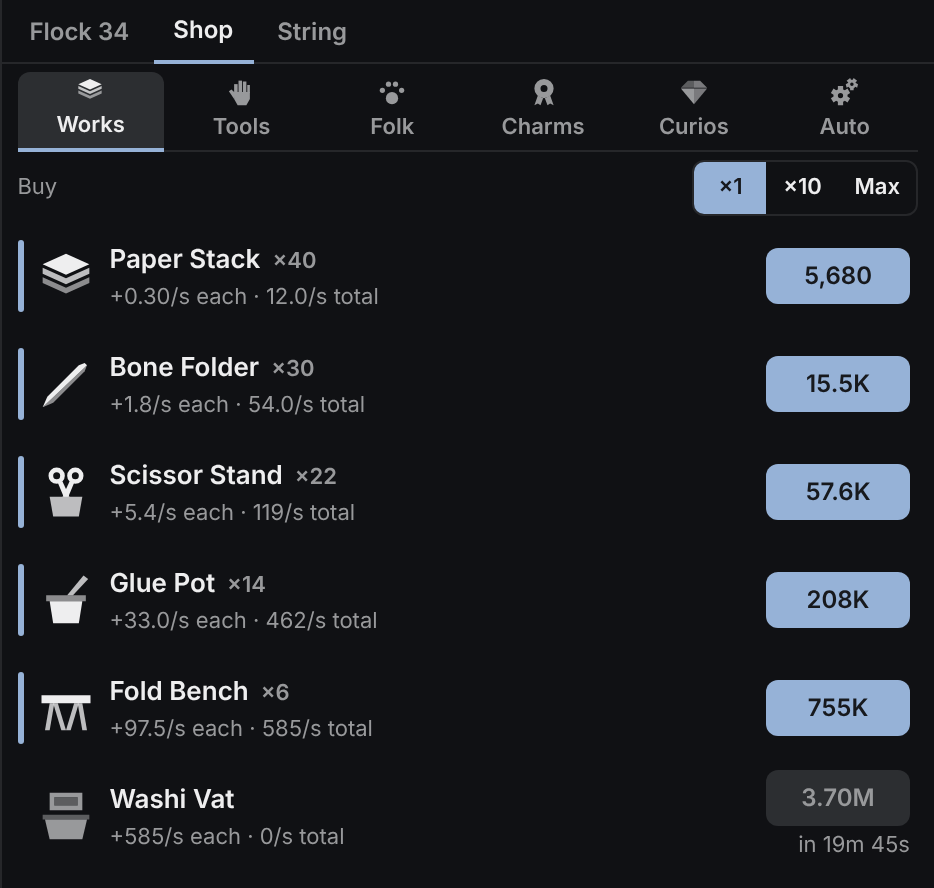
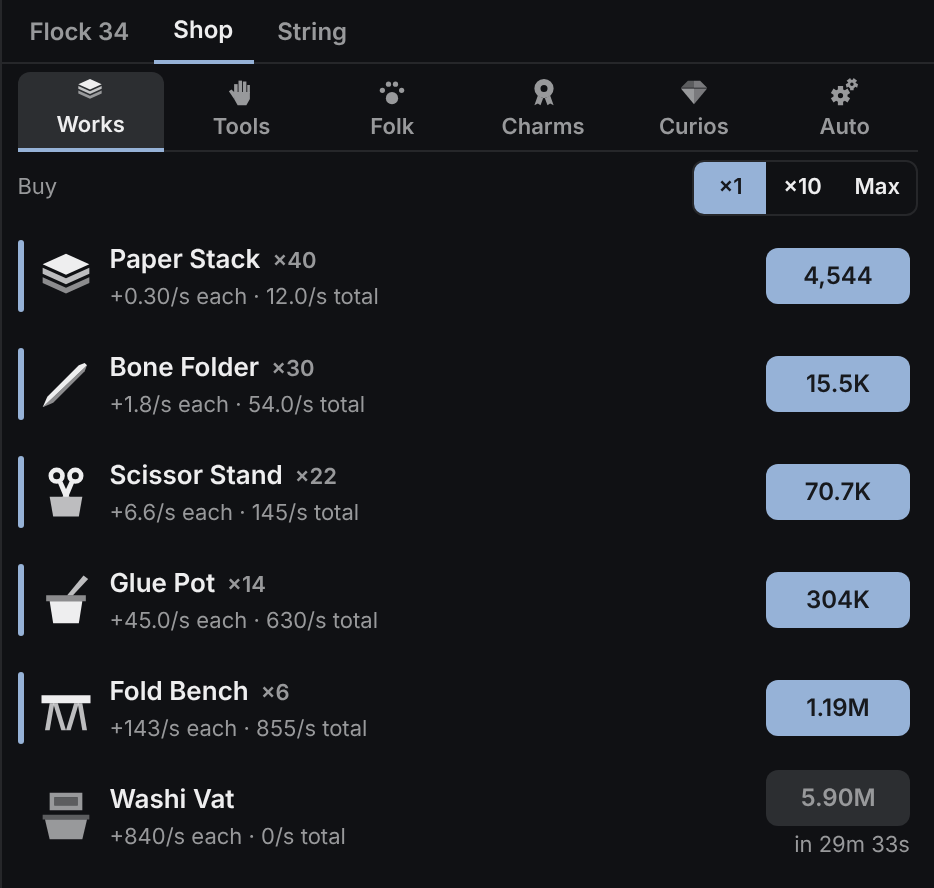
Originality pass: Spare parts perk, own workshop ladder, Confetti reshoot
- 25-Wish perk keeps a tenth of the three cheapest workshops instead of a fixed starter set
- workshop cost steps shrink up the ladder (no constant x12 ratio); bench-pace exponent 0.07 -> 0.06 to keep every pacing row
- README screenshots reshot with Confetti; frenzy.png renamed confetti.png

Claude-Session: https://claude.ai/code/session_018T6HA6JM8ZG8oRmwrts9Xj

diff --git a/tools/shots/hero-views.js b/tools/shots/hero-views.js
@@ -250,8 +250,8 @@ const RUN2_BUYS = [
   ["scissor-stand", 12], ["soft-brushes", 1], ["scrap-basket", 1], ["long-ribbon", 1], ["quick-creases", 1],
   ["long-streak", 1], ["fold-bench", 6], ["glue-pot", 4], ["grand-crease", 1], ["paper-stack", 15], ["bone-folder", 5],
 ];
-/** Folds run 2 has made: what RUN2_BUYS cost plus the ~1.3M in the bank now. */
-const RUN2_FOLDS = 9.4e6;
+/** Folds run 2 has made: what RUN2_BUYS cost (about 10.4M) plus the ~1.3M in the bank now. */
+const RUN2_FOLDS = 1.17e7;
 
 /**
  * THE moment every view starts from: the first wish made, a second run two

diff --git a/docs/screenshots/CAPTIONS.md b/docs/screenshots/CAPTIONS.md
@@ -8,14 +8,14 @@ Made by `node --import ./tools/node/register.mjs tools/shots/hero.mjs [--only na
 
 **README use.** hero-dark.png is the top image. hero-light.png is not a second gallery image. It is the `prefers-color-scheme: light` source of the same `<picture>` (`<source media="(prefers-color-scheme: light)" srcset="docs/screenshots/hero-light.png">` with hero-dark.png as the `<img>`). The cutting mat stays green in every theme, so the two differ only in herdr's chrome and the panel's surfaces.
 
-- hero-dark.png — Creaseworks inside herdr (graphite). In the active tab, a Claude Code agent needs you (it is waiting to edit away.js), a zsh shell has lint and 142 tests passing, and a Codex agent has finished the save-codec tests. On the right, you have just folded the paper: the "+1,593" rises beside it. A chain of seven waits with its next node ringed, and a gilded crane glides in. The Flock of 34 shows all four groups, and the ribbon runs along the bottom. Alt: "A dark herdr window: a sidebar of four spaces and a list of agents, three terminal panes (Claude Code asking to edit away.js, a zsh shell with lint and tests passing, Codex done with save codec tests), and the Creaseworks panel with a green cutting mat (numbered chain nodes, a gold crane, a half-folded paper crane with +1,593 beside it, four envelopes in the tray) above helper tiles grouped as Needs you 3, Finished 2, Working 15 and Resting 14, with a ribbon of 34 status marks under the terminals."
-- hero-light.png — The same moment in herdr's light Paper theme, used only as the light-mode source of the hero `<picture>`. Alt: "The same herdr window in a light theme: three terminals, the green Creaseworks mat with a +1,593 beside the folded paper, and the Flock of 34 in four groups."
+- hero-dark.png — Creaseworks inside herdr (graphite). In the active tab, a Claude Code agent needs you (it is waiting to edit away.js), a zsh shell has lint and 142 tests passing, and a Codex agent has finished the save-codec tests. On the right, you have just folded the paper: the "+2,179" rises beside it. A chain of seven waits with its next node ringed, and a gilded crane glides in. The Flock of 34 shows all four groups, and the ribbon runs along the bottom. Alt: "A dark herdr window: a sidebar of four spaces and a list of agents, three terminal panes (Claude Code asking to edit away.js, a zsh shell with lint and tests passing, Codex done with save codec tests), and the Creaseworks panel with a green cutting mat (numbered chain nodes, a gold crane, a half-folded paper crane with +2,179 beside it, four envelopes in the tray) above helper tiles grouped as Needs you 3, Finished 2, Working 15 and Resting 14, with a ribbon of 34 status marks under the terminals."
+- hero-light.png — The same moment in herdr's light Paper theme, used only as the light-mode source of the hero `<picture>`. Alt: "The same herdr window in a light theme: three terminals, the green Creaseworks mat with a +2,179 beside the folded paper, and the Flock of 34 in four groups."
 - flock.png — The Flock with 34 helpers, at a glance. Red dashed tiles need you. Blue checks have finished, each with an envelope waiting to be opened. Spinners are working and moons are resting. At this herd size the tiles drop their names, so each one shows its origami animal only. Alt: "The Flock tab with 34 unlabelled origami helper tiles in four groups: 3 needing you with red dashed outlines, 2 finished with blue checks and envelopes, 15 working with spinners and 14 resting with moons."
-- frenzy.png — A Paper Storm. You opened a Rush envelope and then a Paper Storm envelope from the tray (two envelopes are left), and you are clicking fast enough to be In step. The storm hatches the mat and keeps dropping chains. You have just clicked the last node of one: its crease line runs across the mat, and its "+41.7K" sits where that last node was. A gilded crane glides in and two scraps wait to be picked up. Storm ×7 and Rush ×3 run below the mat. Alt: "A hatched storm mat with a dashed crease line zigzagging across it ending at a +41.7K pop, a gold crane, two paper scraps, a folded paper triangle, two envelopes in the tray, the streak meter full and reading In step, and Storm ×7 and Rush ×3 timers below."
-- shop.png — The Shop's Works. Workshops are owned in the dozens with their rates, and the next ones are within reach. The Washi Vat is still out of reach ("in 19m 45s"). The crop ends there: the tiers after it stay hidden until you own the one above. Alt: "The Shop tab with segments Works, Tools, Folk, Charms, Curios and Auto, a ×1 / ×10 / Max buy switch, and Paper Stack ×40, Bone Folder ×30, Scissor Stand ×22, Glue Pot ×14 and Fold Bench ×6 with lit buy buttons, then a greyed Washi Vat at 3.70M."
-- string.png — String the Thousand, later in the same game: the String holds 1,000 of 1,000 cranes and the wish is ready. Cranes keep coming past 1,000, and every hundred more adds one more Wish to this wish. That is why a "Next crane" count still shows under a full String. The grid is the mod's own: a thousand small strung cranes, drawn alike. Alt: "The String tab: The String, 1,000 / 1,000 cranes, a dark green card filled with rows of small strung paper cranes, the lines Next crane in 68.5M folds and At 1,000: +10 Wishes, and a Make the wish (+10 Wishes) button."
-- away.png — Back after seven hours. The while-you-were-away card sums up the time away: +11.0M folds, the envelopes waiting, who needs you, who rested, the best helper and what you can now afford. The header still reads 1.48M because the card credits the folds when you click Collect. The long rows end in an ellipsis because the card is at most 304 px wide at any panel width. Alt: "A card over the panel titled While you were away, 7 h: +11.0M folds from workshops and helpers, 9 envelopes waiting, 3 helpers need you with an Open button, 19 helpers rested fully, best helper Kori the crane with 4 tasks, things you can afford, and a Collect button."
-- ribbon.png — The 30 px ribbon under the terminals, end to end. It shows the fold total and one mark per helper for all 34, then the envelope count and the panel toggle, with herdr's status bar below. Alt: "A strip under the bottom edges of the panes: the fold total 1.47M at +1,890/s, a row of 34 small status marks (3 red flags, 2 blue checks with envelopes, yellow spinners and grey moons), an envelope count of 4 and a toggle, above herdr's status bar reading 34 agents · 3 need you."
+- confetti.png — Confetti. You opened a Rush envelope and then a Confetti envelope from the tray (two envelopes are left), and you are clicking fast enough to be In step. Confetti hatches the mat and keeps dropping chains. You have just clicked the last node of one: its crease line runs across the mat, and its "+48.1K" sits where that last node was. A gilded crane glides in and two scraps wait to be picked up. Confetti ×6 and Rush ×3 run below the mat. Alt: "A hatched mat with dashed crease lines zigzagging across it, one ending at a +48.1K pop, a gold crane, two paper scraps, a folded paper triangle, two envelopes in the tray, the streak meter full and reading In step, and Confetti ×6 and Rush ×3 timers below."
+- shop.png — The Shop's Works. Workshops are owned in the dozens with their rates, and the next ones are within reach. The Washi Vat is still out of reach ("in 29m 33s"). The crop ends there: the tiers after it stay hidden until you own the one above. Alt: "The Shop tab with segments Works, Tools, Folk, Charms, Curios and Auto, a ×1 / ×10 / Max buy switch, and Paper Stack ×40, Bone Folder ×30, Scissor Stand ×22, Glue Pot ×14 and Fold Bench ×6 with lit buy buttons, then a greyed Washi Vat at 5.90M."
+- string.png — String the Thousand, later in the same game: the String holds 1,000 of 1,000 cranes and the wish is ready. Cranes keep coming past 1,000, and every hundred more adds one more Wish to this wish. That is why a "Next crane" count still shows under a full String, and why this wish is ready at +13 Wishes. The grid is the mod's own: a thousand small strung cranes, drawn alike. Alt: "The String tab: The String, 1,000 / 1,000 cranes, a dark green card filled with rows of small strung paper cranes, the lines Next crane in 33.9M folds · lifetime 49.3B and Ready: +13 Wishes, and a Make the wish (+13 Wishes) button."
+- away.png — Back after seven hours. The while-you-were-away card sums up the time away: +15.1M folds, the envelopes waiting, who needs you, who rested, the best helper and what you can now afford. The header still reads 1.33M because the card credits the folds when you click Collect. The long rows end in an ellipsis because the card is at most 304 px wide at any panel width. Alt: "A card over the panel titled While you were away, 7 h: +15.1M folds from workshops and helpers, 9 envelopes waiting, 3 helpers need you with an Open button, 19 helpers rested fully, best helper Kori the crane with 4 tasks, things you can afford, and a Collect button."
+- ribbon.png — The 30 px ribbon under the terminals, end to end. It shows the fold total and one mark per helper for all 34, then the envelope count and the panel toggle, with herdr's status bar below. Alt: "A strip under the bottom edges of the panes: the fold total 1.32M at +2,592/s, a row of 34 small status marks (3 red flags, 2 blue checks with envelopes, yellow spinners and grey moons), an envelope count of 4 and a toggle, above herdr's status bar reading 34 agents · 3 need you."
 - themes.png — The same moment in all six herdr themes. Each cell shows the right edge of a terminal, the panel's tabs and Flock, the ribbon and herdr's status bar. Each label's three swatches are the theme's terminal background, chrome and accent, and all three show in the cell. The panel takes the theme's chrome colour, so win98's panel looks like paper's; win98 differs in its black terminals and navy accent. The four dark themes differ only slightly. That is true to the themes, not a rendering fault. Alt: "Six crops of the Creaseworks Flock and ribbon in a three-by-two grid, labelled graphite, paper, ink, moss, atom-one-dark and win98 with colour swatches: four near-black variants, a light paper one, and a light win98 one beside a black terminal."
-- rail.png — Folded to its 64 px rail, the game keeps to a thin column beside the terminals, and the terminals stay usable. The rail shows the fold total, the paper being folded, who needs you, the envelopes and every helper's status. The paper glyph is the mod's folding-sheet art at rail size, so at this size it reads as a small diamond. Alt: "A zsh terminal and a Codex terminal stacked beside a narrow full-height rail showing 1.46M folds, a small folded paper on a green tile, 3 needing you, 4 envelopes and a grid of 34 status marks."
+- rail.png — Folded to its 64 px rail, the game keeps to a thin column beside the terminals, and the terminals stay usable. The rail shows the fold total, the paper being folded, who needs you, the envelopes and every helper's status. The paper glyph is the mod's folding-sheet art at rail size, so at this size it reads as a small diamond. Alt: "A zsh terminal and a Codex terminal stacked beside a narrow full-height rail showing 1.31M folds, a small folded paper on a green tile, 3 needing you, 4 envelopes and a grid of 34 status marks."
 - jump.png — Click a helper who needs you and herdr jumps to its terminal. The tile's click handler asks herdr to focus that agent's pane: here, the Claude Code in the "ui" tab, waiting to edit shop.js. The red marker under the first frame sits outside its pixels and points at the tile that was clicked. The rig draws no cursor. Alt: "Two frames: left, the Creaseworks panel with three red dashed Needs you tiles, the third marked clicked; right, herdr after the click, with the ui tab active, its sidebar row highlighted, and a Claude Code pane asking whether to edit shop.js."

diff --git a/README.md b/README.md
@@ -11,11 +11,11 @@ A paper workshop on the corner of your desk, built for [herdr](https://herdr.dev
 
 | | |
 |---|---|
-| ![The Flock tab with 34 origami helper tiles in four groups: 3 needing you with red dashed outlines, 2 finished with blue checks and envelopes, 15 working with spinners and 14 resting with moons.](docs/screenshots/flock.png) | ![A hatched storm mat with a dashed crease line zigzagging across it ending at a +41.7K pop, a gold crane, two paper scraps, the streak meter reading In step, and Storm ×7 and Rush ×3 timers.](docs/screenshots/frenzy.png) |
+| ![The Flock tab with 34 origami helper tiles in four groups: 3 needing you with red dashed outlines, 2 finished with blue checks and envelopes, 15 working with spinners and 14 resting with moons.](docs/screenshots/flock.png) | ![A hatched mat with dashed crease lines zigzagging across it, one ending at a +48.1K pop, a gold crane, two paper scraps, the streak meter reading In step, and Confetti ×6 and Rush ×3 timers.](docs/screenshots/confetti.png) |
 | **Every agent is a helper.** Needs you, finished, working or resting, readable at a glance. | **Clicking stays fun.** Open a Rush and a Confetti, chain the nodes, catch the gilded crane. |
-| ![The Shop tab: Paper Stack, Bone Folder, Scissor Stand, Glue Pot and Fold Bench with buy buttons, and a greyed Washi Vat.](docs/screenshots/shop.png) | ![The String tab: 1,000 / 1,000 cranes strung on a green card and a Make the wish (+10 Wishes) button.](docs/screenshots/string.png) |
+| ![The Shop tab: Paper Stack, Bone Folder, Scissor Stand, Glue Pot and Fold Bench with buy buttons, and a greyed Washi Vat.](docs/screenshots/shop.png) | ![The String tab: 1,000 / 1,000 cranes strung on a green card and a Make the wish (+13 Wishes) button.](docs/screenshots/string.png) |
 | **Spend your folds** on workshops, tools, folk, charms, curios and automations. | **String the Thousand.** Trade 1,000 cranes for Wishes, a permanent bonus. |
-| ![A While you were away card: 7 h, +11.0M folds, 9 envelopes waiting, 3 helpers need you with an Open button, 19 helpers rested, and a Collect button.](docs/screenshots/away.png) | ![A zsh terminal and a Codex terminal beside a narrow rail showing the fold total, the paper, 3 needing you, 4 envelopes and 34 status marks.](docs/screenshots/rail.png) |
+| ![A While you were away card: 7 h, +15.1M folds, 9 envelopes waiting, 3 helpers need you with an Open button, 19 helpers rested, and a Collect button.](docs/screenshots/away.png) | ![A zsh terminal and a Codex terminal beside a narrow rail showing the fold total, the paper, 3 needing you, 4 envelopes and 34 status marks.](docs/screenshots/rail.png) |
 | **While you were away.** Helpers keep folding for up to 8 hours. | **Fold it to a rail** and your terminals get the room back. |
 
 ![Two frames: the Creaseworks panel with a needs-you tile clicked, then herdr showing that agent's terminal, where Claude Code asks whether to edit shop.js.](docs/screenshots/jump.png)

diff --git a/RECIPE.md b/RECIPE.md
@@ -69,7 +69,7 @@ The palette also has "Creaseworks: hide or show the panel" (`layout.toggle {id:"
 
 **Settings** (gear): Calm mode, Notifications (off by default; at most 3 a day; never sound), a switch for each automation you own, Play (Helpers gather, Crease nodes appear, Floating numbers), Roster (order and density), Number style, Save (path, Check save now, Restore backup…, Share a save with another herdr home…) and Reset game….
 
-**What moves.** Nothing moves at rest. Animation runs only for a short time after an event: the needs-you pulse, new-work spins, the crane's glide and bob, the boat, storm stripes, an envelope landing, the first-run hint and floating "+N" numbers. Calm mode removes all of it and keeps every earning the same.
+**What moves.** Nothing moves at rest. Animation runs only for a short time after an event: the needs-you pulse, new-work spins, the crane's glide and bob, the boat, Confetti stripes, an envelope landing, the first-run hint and floating "+N" numbers. Calm mode removes all of it and keeps every earning the same.
 
 ## Built from
 
